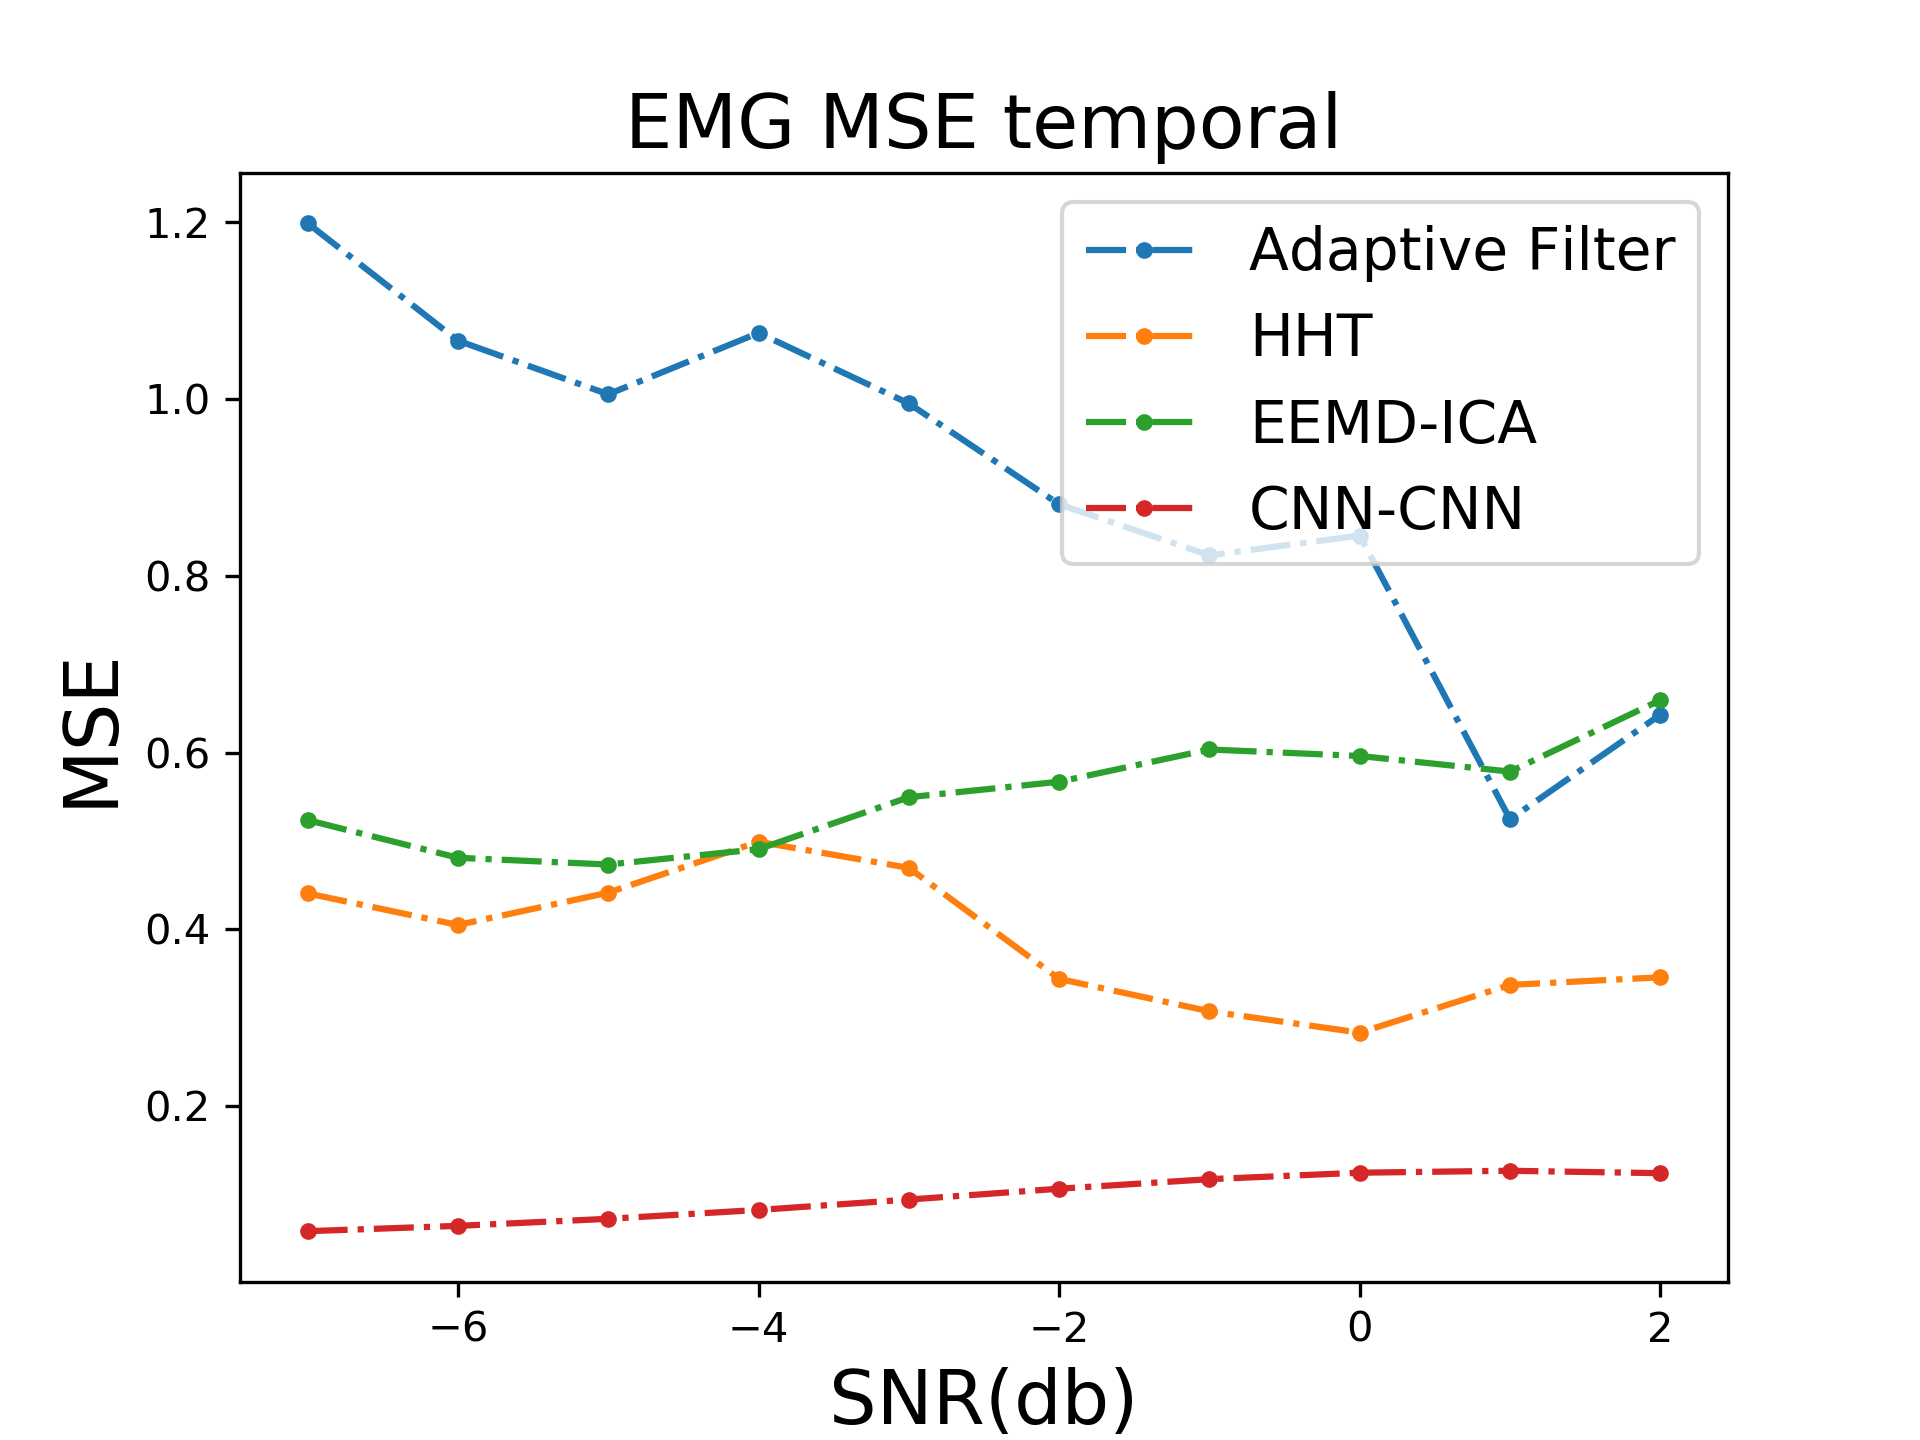
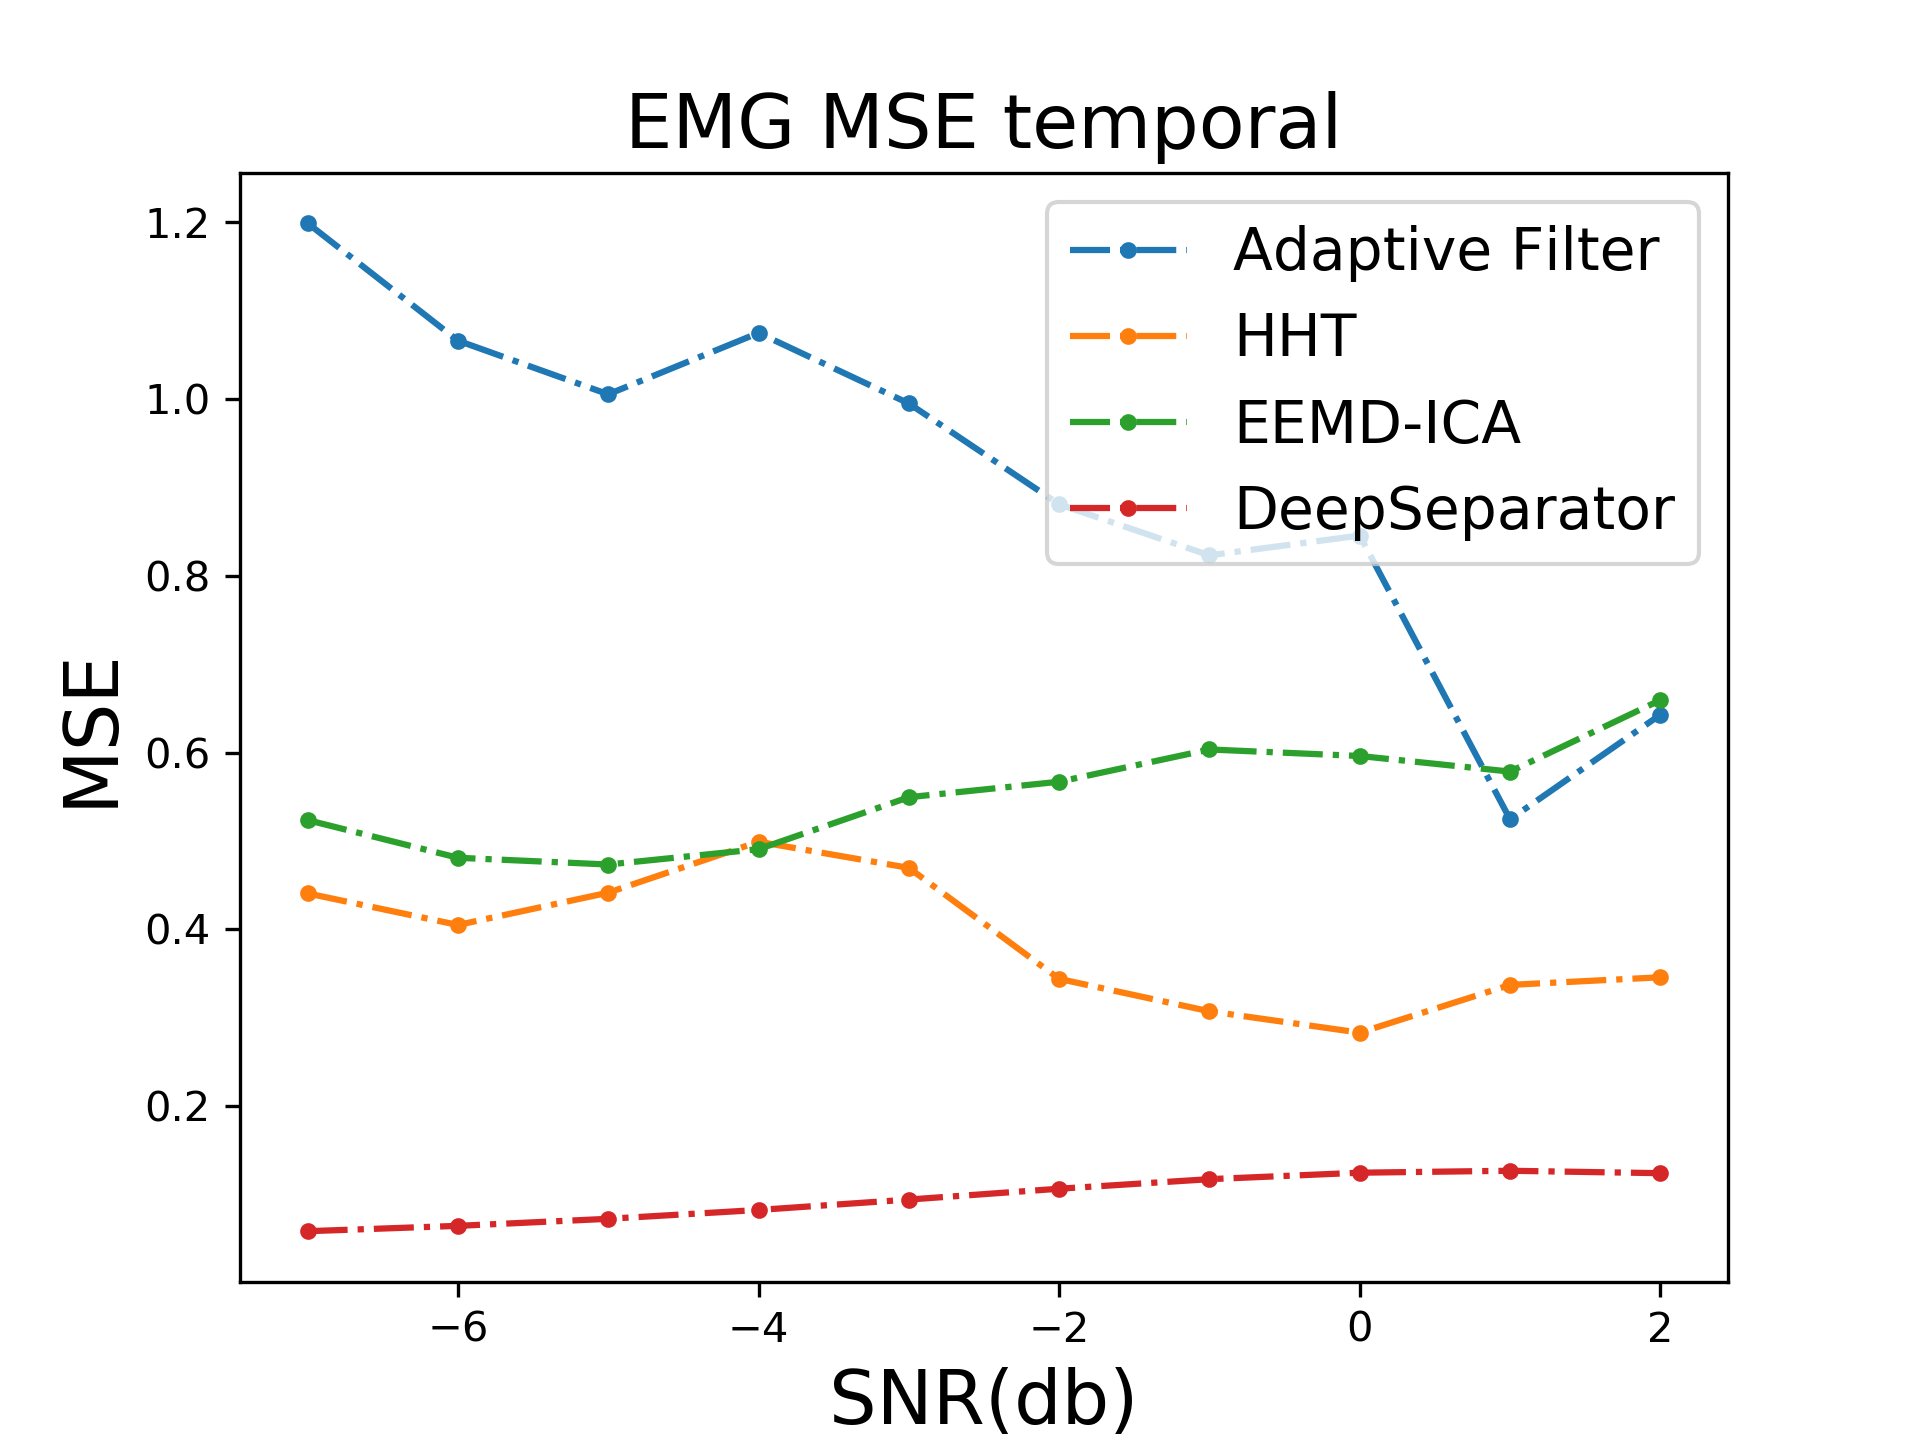
adjust result

diff --git a/Exp6/helper.py b/Exp6/helper.py
@@ -8,7 +8,7 @@ Date: 7/31/2021
 import numpy as np
 import matplotlib.pyplot as plt
 from scipy.fftpack import fft, fftshift, ifft
-
+from matplotlib.ticker import MultipleLocator
 
 def metric(origin_noisy,clean_eeg,retain_eeg):
     # problem: psd xx 与 手算的不大一样
@@ -118,54 +118,86 @@ def plotSNRhigh(mset_list, mses_list, cc_list):
 
 def plotSNRhighCNN(name,mset_list, mses_list, cc_list, mset_list_CNN, mses_list_CNN, cc_list_CNN):
     # set dpi and fontsize
-    plt.figure()
+    plt.figure(figsize=(13,9))
+    ax1 = plt.subplot(1, 3, 1)
+
     plt.plot(range(-7, 3), mset_list[:,0].T,'.-.',label='Adaptive Filter')
     plt.plot(range(-7, 3), mset_list[:,1].T,'.-.',label='HHT')
     plt.plot(range(-7, 3), mset_list[:,2].T,'.-.',label='EEMD-ICA')
     # plt.plot(range(-7, 3), mset_list[:,3].T,'.-.',label='EEMD-CCA')
-    plt.plot(range(-7, 3), mset_list_CNN.T,'.-.',label='CNN-CNN')
+    plt.plot(range(-7, 3), mset_list_CNN.T,'.-.',label='DeepSeparator')
+    # modify ticks
+    xticks = range(-7,3)
+    plt.xticks(xticks)
+
+    yminorLocator = MultipleLocator(0.05)
+    ax1.yaxis.set_minor_locator(yminorLocator)
+
+    plt.xlabel("SNR(db)",fontsize=15)
+    # plt.ylabel("MSE",fontsize=18)
+    title = " MSE temporal"
+    plt.title(title,fontsize=15)
+    # fig = title + ".png"
+    # plt.savefig(fig,dpi=300)
 
 
-    plt.xlabel("SNR(db)",fontsize=18)
-    plt.ylabel("MSE",fontsize=18)
-    plt.legend(fontsize=14)
-    title = name + " MSE temporal"
-    plt.title(title,fontsize=18)
-    fig = title + ".png"
-    plt.savefig(fig,dpi=300)
+    ax2 = plt.subplot(1,3,2)
 
-
-    plt.figure()
     plt.plot(range(-7, 3), mses_list[:, 0].T, '.-.',label='Adaptive Filter')
     plt.plot(range(-7, 3), mses_list[:, 1].T, '.-.',label='HHT')
     plt.plot(range(-7, 3), mses_list[:, 2].T, '.-.',label='EEMD-ICA')
     # plt.plot(range(-7, 3), mses_list[:, 3].T, '.-.',label='EEMD-CCA')
-    plt.plot(range(-7, 3), mses_list_CNN.T,'.-.',label='CNN-CNN')
+    plt.plot(range(-7, 3), mses_list_CNN.T,'.-.',label='DeepSeparator')
 
-    plt.xlabel("SNR(db)",fontsize=18)
-    plt.ylabel("MSE",fontsize=18)
-    plt.legend(fontsize=14)
-    title = name + " MSE spectral"
-    plt.title(title,fontsize=18)
-    fig = title + ".png"
-    plt.savefig(fig,dpi=300)
+    plt.xlabel("SNR(db)",fontsize=15)
+    # plt.ylabel("MSE",fontsize=18)
+    xticks = range(-7, 3)
+    plt.xticks(xticks)
+    yminorLocator = MultipleLocator(0.05)
+    ax2.yaxis.set_minor_locator(yminorLocator)
 
-    plt.figure()
+    title = " MSE spectral"
+    plt.title(title,fontsize=15)
+    # fig = title + ".png"
+    # plt.savefig(fig,dpi=300)
+
+    ax3 = plt.subplot(1,3,3)
     plt.plot(range(-7, 3), cc_list[:, 0].T, '.-.',label='Adaptive Filter')
     plt.plot(range(-7, 3), cc_list[:, 1].T, '.-.',label='HHT')
     plt.plot(range(-7, 3), cc_list[:, 2].T, '.-.',label='EEMD-ICA')
     # plt.plot(range(-7, 3), cc_list[:, 3].T, '.-.',label='EEMD-CCA')
-    plt.plot(range(-7, 3), cc_list_CNN.T,'.-.',label='CNN-CNN')
+    plt.plot(range(-7, 3), cc_list_CNN.T,'.-.',label='DeepSeparator')
 
-    plt.xlabel("SNR(db)",fontsize=18)
-    plt.ylabel("CC",fontsize=18)
-    title = name + " CC"
-    plt.title(title,fontsize=18)
-    fig = title + ".png"
-    plt.legend(fontsize=14)
-    plt.savefig(fig,dpi=300)
+    plt.xlabel("SNR(db)",fontsize=15)
+    # plt.ylabel("CC",fontsize=18)
+    xticks = range(-7, 3)
+    plt.xticks(xticks)
+    yminorLocator = MultipleLocator(0.05)
+    ax3.yaxis.set_minor_locator(yminorLocator)
 
-    plt.show()
+    title = " CC"
+    plt.title(title,fontsize=15)
+    plt.subplots_adjust(wspace=0.3)
+    box = ax1.get_position()
+    ax1.set_position([box.x0, box.y0 + box.height * 0.2,
+                     box.width, box.height * 0.7])
+    box = ax2.get_position()
+    ax2.set_position([box.x0, box.y0 + box.height * 0.2,
+                      box.width, box.height * 0.7])
+    box = ax3.get_position()
+    ax3.set_position([box.x0, box.y0 + box.height * 0.2,
+                      box.width, box.height * 0.7])
+    plt.legend(fontsize=14,loc='upper right',bbox_to_anchor = (0.5, -0.2),ncol=4)
+
+
+
+    fig = name+ ".png"
+    plt.savefig(fig,dpi=400)
+
+
+
+
+
 
 def plotSNR(mset_list, mses_list, cc_list):
     plt.figure()

diff --git a/Exp6/paint.py b/Exp6/paint.py
@@ -9,19 +9,19 @@ Log:
 
 import numpy as np
 from helper import *
-
+import matplotlib.pyplot as plt
 if __name__ == '__main__':
 
     ## EOG
-
+    #
     EOGmset_list = np.loadtxt("EOGmset matrix")
     EOGmses_list = np.loadtxt("EOGmses matrix")
     EOGcc_list = np.loadtxt("EOGcc matrix")
     EOGmset_list_CNN = np.loadtxt("EOGmset matrix_CNN")
     EOGmses_list_CNN = np.loadtxt("EOGmses matrix_CNN")
     EOGcc_list_CNN = np.loadtxt("EOGcc matrix_CNN")
-    plotSNRhighCNN("EOG",EOGmset_list,EOGmses_list,EOGcc_list, EOGmset_list_CNN, EOGmses_list_CNN, EOGcc_list_CNN)
-    #
+    plotSNRhighCNN("(a) Ocular artifact removal",EOGmset_list,EOGmses_list,EOGcc_list, EOGmset_list_CNN, EOGmses_list_CNN, EOGcc_list_CNN)
+
 
     # EMG
     EMGmset_list = np.loadtxt("EMGmset matrix")
@@ -30,7 +30,10 @@ if __name__ == '__main__':
     EMGmset_list_CNN = np.loadtxt("EMGmset matrix_CNN")
     EMGmses_list_CNN = np.loadtxt("EMGmses matrix_CNN")
     EMGcc_list_CNN = np.loadtxt("EMGcc matrix_CNN")
-    plotSNRhighCNN("EMG",EMGmset_list,EMGmses_list,EMGcc_list, EMGmset_list_CNN, EMGmses_list_CNN, EMGcc_list_CNN)
+    plotSNRhighCNN("(b) Myogenic artifact removal",EMGmset_list,EMGmses_list,EMGcc_list, EMGmset_list_CNN, EMGmses_list_CNN, EMGcc_list_CNN)
+
+
+
 
 
 
